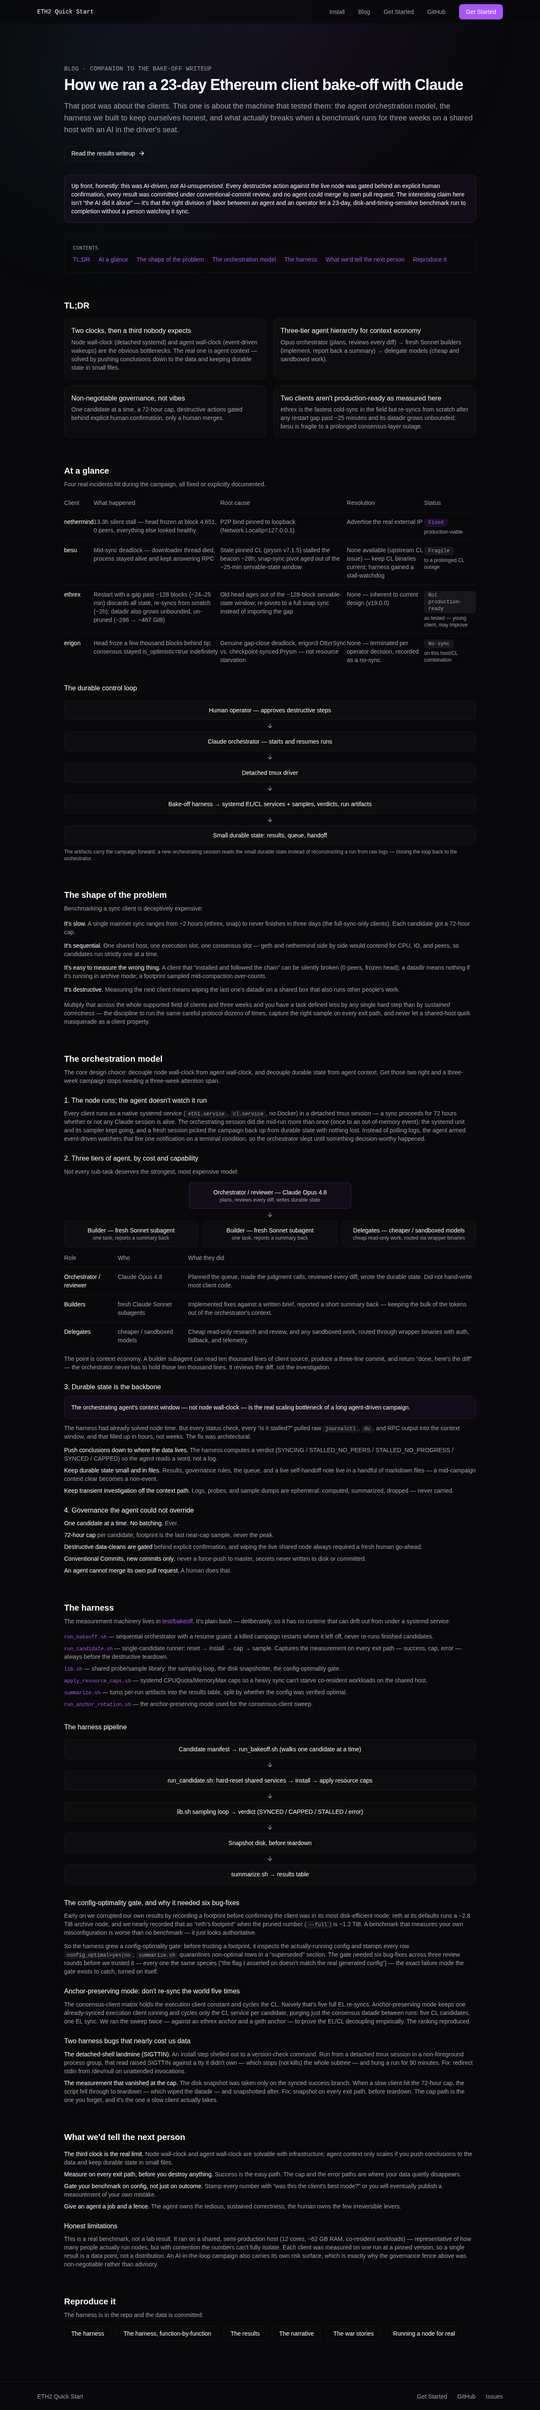
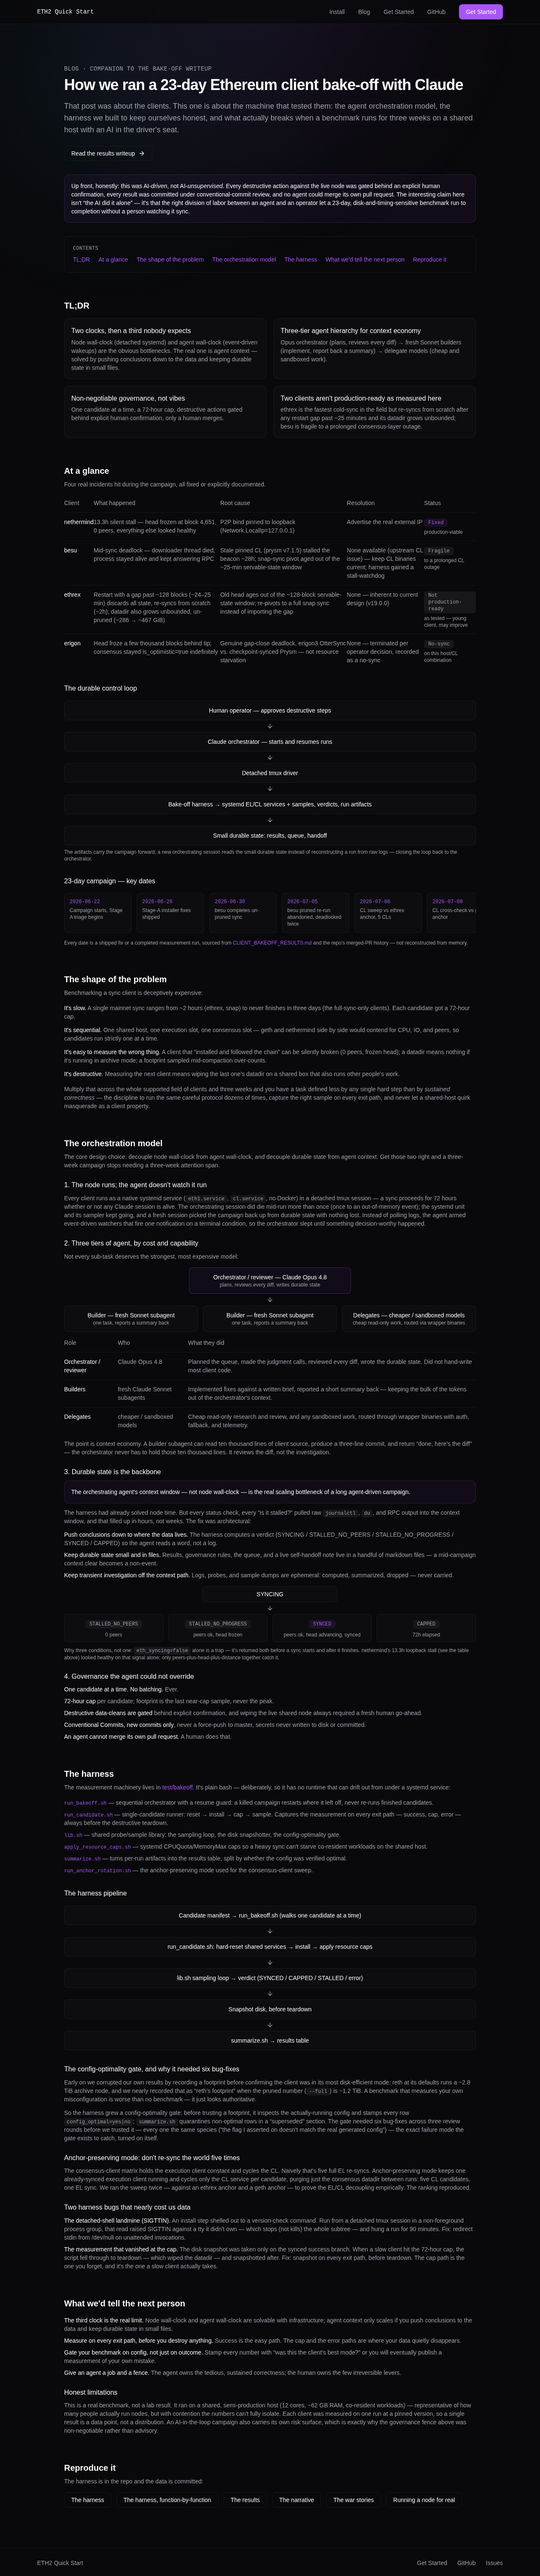
feat(frontend): add campaign timeline and verdict diagrams to the JSX page
Mirrors the two new diagrams added to HOW_WE_TESTED_WITH_CLAUDE.md in #207:

- CampaignTimeline: horizontal-scroll row of the 10 dated milestones
  spanning the full campaign, placed under the control-loop diagram in
  "At a glance".
- VerdictDiagram: SYNCING box fanning to the four verdict outcomes
  (STALLED_NO_PEERS / STALLED_NO_PROGRESS / SYNCED / CAPPED) with their
  trigger conditions, placed where the verdict enum is introduced in
  "Durable state is the backbone".

Same source dates and verdict logic as the Mermaid versions -- no new
facts introduced, just ported to the site's existing box/arrow visual
language (no diagramming library in this repo).

Verified: typecheck, lint, Jest (30 tests), and `next build` all pass.
Screenshotted via a local dev server and visually confirmed both new
sections render correctly before committing.

Changed region(s): [[0.125, 0.0312, 0.875, 0.9674]]

diff --git a/frontend/app/blog/how-we-tested-with-claude/page.tsx b/frontend/app/blog/how-we-tested-with-claude/page.tsx
@@ -87,6 +87,28 @@ const controlLoopSteps = [
   'Small durable state: results, queue, handoff',
 ]
 
+// Every date is a shipped fix or completed measurement run, cross-checked against
+// CLIENT_BAKEOFF_RESULTS.md and the repo's merged-PR history — none invented or approximated.
+const campaignTimeline = [
+  { date: '2026-06-22', label: 'Campaign starts, Stage A triage begins' },
+  { date: '2026-06-26', label: 'Stage-A installer fixes shipped' },
+  { date: '2026-06-30', label: 'besu completes un-pruned sync' },
+  { date: '2026-07-05', label: 'besu pruned re-run abandoned, deadlocked twice' },
+  { date: '2026-07-06', label: 'CL sweep vs ethrex anchor, 5 CLs' },
+  { date: '2026-07-08', label: 'CL cross-check vs geth anchor' },
+  { date: '2026-07-10', label: 'ethrex restart-cliff bisected, geth 52h resume verified' },
+  { date: '2026-07-12', label: 'Installer / config correctness fixes shipped' },
+  { date: '2026-07-13', label: 'nimbus_eth1 72h capped run completes' },
+  { date: '2026-07-14', label: 'Campaign ends, harness and results docs shipped' },
+]
+
+const verdictOutcomes = [
+  { name: 'STALLED_NO_PEERS', trigger: '0 peers', variant: 'default' as const },
+  { name: 'STALLED_NO_PROGRESS', trigger: 'peers ok, head frozen', variant: 'default' as const },
+  { name: 'SYNCED', trigger: 'peers ok, head advancing, synced', variant: 'primary' as const },
+  { name: 'CAPPED', trigger: '72h elapsed', variant: 'default' as const },
+]
+
 const harnessPipelineSteps = [
   'Candidate manifest → run_bakeoff.sh (walks one candidate at a time)',
   'run_candidate.sh: hard-reset shared services → install → apply resource caps',
@@ -169,6 +191,40 @@ function AgentHierarchy() {
           Delegates — cheaper / sandboxed models
           <span className="block text-xs text-muted-foreground">cheap read-only work, routed via wrapper binaries</span>
         </div>
+      </div>
+    </div>
+  )
+}
+
+function CampaignTimeline() {
+  return (
+    <div className="mt-4 overflow-x-auto">
+      <div className="flex gap-3 pb-2" style={{ minWidth: 'max-content' }}>
+        {campaignTimeline.map((item) => (
+          <div key={item.date} className="w-40 shrink-0 rounded-lg border border-border bg-muted/30 p-3">
+            <p className="font-mono text-xs text-primary">{item.date}</p>
+            <p className="mt-1 text-xs text-muted-foreground">{item.label}</p>
+          </div>
+        ))}
+      </div>
+    </div>
+  )
+}
+
+function VerdictDiagram() {
+  return (
+    <div className="mt-4">
+      <div className="mx-auto max-w-xs rounded-lg border border-border bg-muted/30 px-4 py-2 text-center text-sm font-medium text-foreground">
+        SYNCING
+      </div>
+      <ArrowDown className="mx-auto my-1.5 h-4 w-4 text-muted-foreground" aria-hidden="true" />
+      <div className="grid gap-3 sm:grid-cols-4">
+        {verdictOutcomes.map((outcome) => (
+          <div key={outcome.name} className="rounded-lg border border-border bg-muted/30 px-3 py-2 text-center">
+            <Badge variant={outcome.variant}>{outcome.name}</Badge>
+            <p className="mt-1.5 text-xs text-muted-foreground">{outcome.trigger}</p>
+          </div>
+        ))}
       </div>
     </div>
   )
@@ -291,6 +347,16 @@ export default function HowWeTestedWithClaudePage() {
               the orchestrator.
             </p>
           </div>
+
+          <div className="mt-8">
+            <h3 className="font-medium text-foreground">23-day campaign — key dates</h3>
+            <CampaignTimeline />
+            <p className="mt-2 text-xs text-muted-foreground">
+              Every date is a shipped fix or a completed measurement run, sourced from{' '}
+              <a href={`${SITE_CONFIG.github}/blob/master/docs/CLIENT_BAKEOFF_RESULTS.md`} target="_blank" rel="noopener noreferrer" className="text-primary hover:underline">CLIENT_BAKEOFF_RESULTS.md</a>
+              {' '}and the repo&apos;s merged-PR history &mdash; not reconstructed from memory.
+            </p>
+          </div>
         </section>
 
         <section id="shape-of-the-problem" className="mt-10 sm:mt-16">
@@ -378,6 +444,10 @@ export default function HowWeTestedWithClaudePage() {
             <li><span className="font-medium text-foreground">Keep durable state small and in files.</span> Results, governance rules, the queue, and a live self-handoff note live in a handful of markdown files &mdash; a mid-campaign context clear becomes a non-event.</li>
             <li><span className="font-medium text-foreground">Keep transient investigation off the context path.</span> Logs, probes, and sample dumps are ephemeral: computed, summarized, dropped &mdash; never carried.</li>
           </ul>
+          <VerdictDiagram />
+          <p className="mt-3 text-xs text-muted-foreground">
+            Why three conditions, not one: <code className="rounded bg-muted px-1.5 py-0.5 font-mono text-xs">eth_syncing=false</code> alone is a trap &mdash; it&apos;s returned both before a sync starts and after it finishes. nethermind&apos;s 13.3h loopback stall (see the table above) looked healthy on that signal alone; only peers-plus-head-plus-distance together catch it.
+          </p>
 
           <h3 className="mt-6 font-medium text-foreground">4. Governance the agent could not override</h3>
           <ul className="mt-2 space-y-2 text-sm text-muted-foreground">
